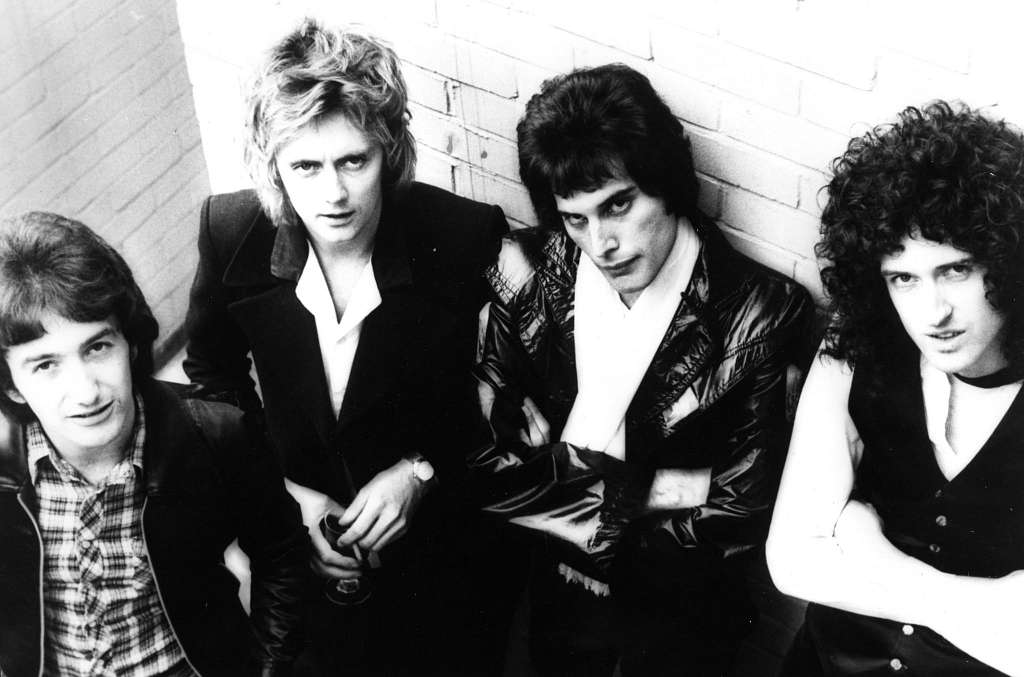
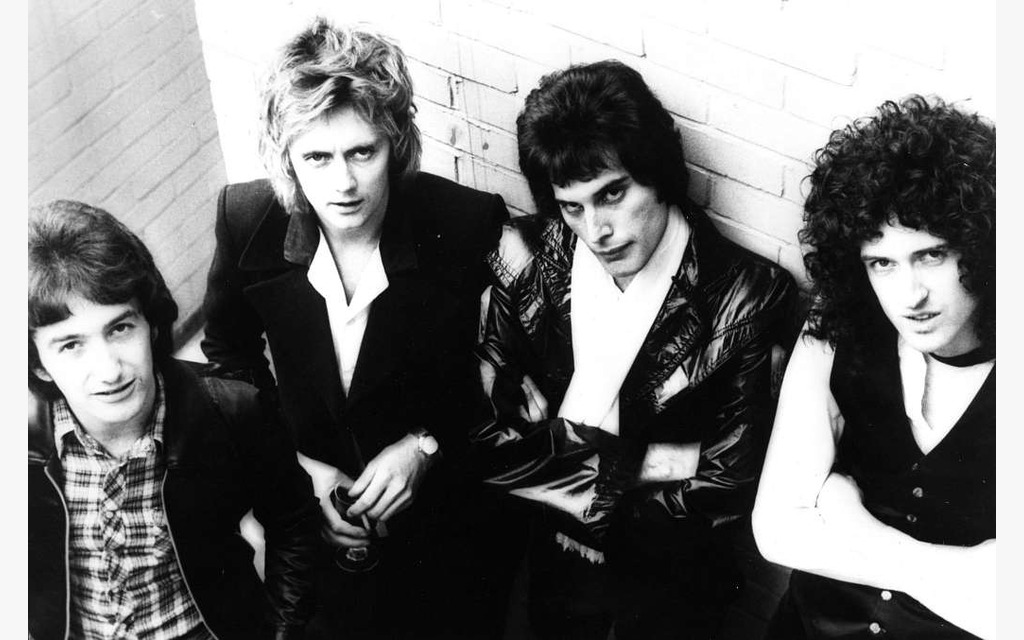
Apply PSI recomendations

diff --git a/src/presentation.html b/src/presentation.html
@@ -22,7 +22,7 @@
             <div class="swiper">
                 <div class="swiper-wrapper">
                     <div class="swiper-slide"><img src="assets/images/slide_1.jpg?as=avif"
-                            alt="Grupo de Rock Queen en 1977" width="1024" height="677">
+                            alt="Grupo de Rock Queen en 1977" width="1024" height="640">
                     </div>
                     <div class="swiper-slide"><img src="assets/images/slide_2.jpg?as=avif"
                             alt="Queen junto al futbolísta Maradona" loading="lazy" width="1024" height="640">
@@ -31,13 +31,13 @@
                             alt="Portal del álbum Hot Space" loading="lazy" width="1024" height="640">
                     </div>
                     <div class="swiper-slide"><img src="assets/images/queen-concert.jpg?as=avif"
-                            alt="Queen en concierto" loading="lazy" width="2560" height="1600">
+                            alt="Queen en concierto" loading="lazy" width="1024" height="640">
                     </div>
-                    <div class="swiper-slide"><img src="assets/images/queen-photo-2560w.jpg?as=avif"
-                            alt="Foto del grupo" loading="lazy" width="2560" height="1600">
+                    <div class="swiper-slide"><img src="assets/images/slide_5.jpg?as=avif"
+                            alt="Foto del grupo" loading="lazy" width="1024" height="640">
                     </div>
                     <div class="swiper-slide"><img src="assets/images/slide_6.jpg?as=avif"
-                            alt="Freedy Mercury en un concierto" loading="lazy" width="1500" height="999">
+                            alt="Freedy Mercury en un concierto" loading="lazy" width="1024" height="640">
                     </div>
                 </div>
                 <div class="swiper-pagination"></div>
